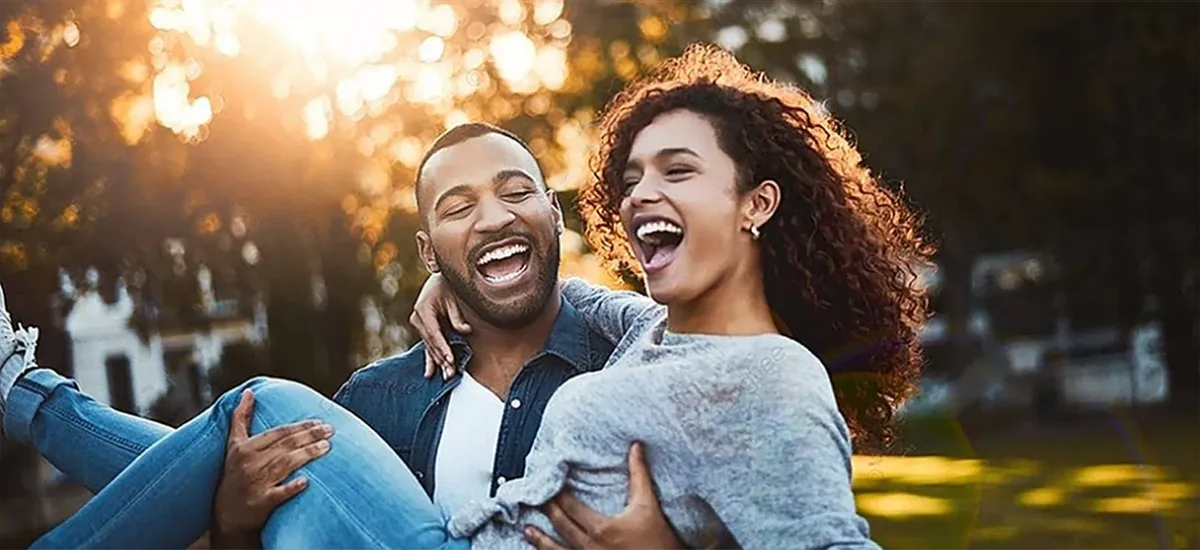
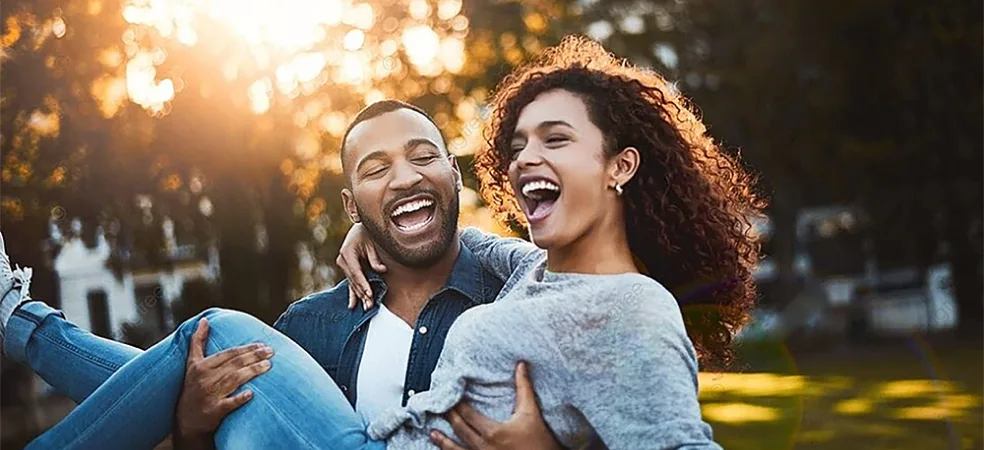
Use the Figma photos, fix the tab-switch jump
- Event banners come from Blend-remake: Office hours had the Day off
  photo, and Day off had none.
- Gender photos are transparent 2x exports (no white box in dark mode);
  Try-On demo photos are full size. Unused images removed.
- scrollbar-gutter: stable, so the column no longer shifts sideways
  when switching between Events and the change room on desktop.

diff --git a/src/data/events.ts b/src/data/events.ts
@@ -13,12 +13,12 @@ export type EventInfo = {
 export const events: EventInfo[] = [
   { id: 'casual', title: 'Casual', banner: asset('events/casual.webp'), font: { family: '"Notable", sans-serif', size: 63 }, productIds: ['g21', 'g14', 'g19', 'g08', 'g02', 'g01'] },
   { id: 'outdoors', title: 'Outdoors', banner: asset('events/outdoors.webp'), font: { family: '"Alfa Slab One", serif', size: 56 }, productIds: ['g11', 'g20', 'g12', 'g16', 'g01', 'g03'] },
-  { id: 'office-hours', title: 'Office hours', banner: asset('events/work.webp'), font: { family: '"DM Serif Display", serif', size: 67 }, productIds: ['g07', 'g15', 'g13', 'g06', 'g01', 'g03'] },
-  { id: 'day-off', title: 'Day off', font: { family: '"Kranky", cursive', size: 63 }, productIds: ['g10', 'g06', 'g18', 'g08', 'g02', 'g04'] },
+  { id: 'office-hours', title: 'Office hours', banner: asset('events/office-hours.webp'), font: { family: '"DM Serif Display", serif', size: 67 }, productIds: ['g07', 'g15', 'g13', 'g06', 'g01', 'g03'] },
+  { id: 'day-off', title: 'Day off', banner: asset('events/day-off.webp'), font: { family: '"Kranky", cursive', size: 63 }, productIds: ['g10', 'g06', 'g18', 'g08', 'g02', 'g04'] },
   { id: 'maternity', title: 'Maternity', banner: asset('events/maternity.webp'), font: { family: '"Italiana", serif', size: 63 }, productIds: ['g08', 'g06', 'g18', 'g20', 'g02', 'g04'] },
-  { id: 'working-out', title: 'Working out', banner: asset('events/sport.webp'), font: { family: '"Racing Sans One", sans-serif', size: 65 }, productIds: ['g17', 'g18', 'g21', 'g06', 'g02', 'g04'] },
-  { id: 'night-out', title: 'Night out', banner: asset('events/evening.webp'), font: { family: '"Monoton", cursive', size: 54 }, productIds: ['g15', 'g09', 'g13', 'g07', 'g03', 'g05'] },
-  { id: 'beach-day', title: 'Beach day', banner: asset('events/beach.webp'), font: { family: '"Pacifico", cursive', size: 52 }, productIds: ['g17', 'g19', 'g14', 'g18', 'g04', 'g05'] },
+  { id: 'working-out', title: 'Working out', banner: asset('events/working-out.webp'), font: { family: '"Racing Sans One", sans-serif', size: 65 }, productIds: ['g17', 'g18', 'g21', 'g06', 'g02', 'g04'] },
+  { id: 'night-out', title: 'Night out', banner: asset('events/night-out.webp'), font: { family: '"Monoton", cursive', size: 54 }, productIds: ['g15', 'g09', 'g13', 'g07', 'g03', 'g05'] },
+  { id: 'beach-day', title: 'Beach day', banner: asset('events/beach-day.webp'), font: { family: '"Pacifico", cursive', size: 52 }, productIds: ['g17', 'g19', 'g14', 'g18', 'g04', 'g05'] },
 ]
 
 export const eventsById: Record<string, EventInfo> = Object.fromEntries(events.map((e) => [e.id, e]))

diff --git a/src/services/tryOn.ts b/src/services/tryOn.ts
@@ -24,7 +24,7 @@ export type TryOnResult = { imageUrl: string; isDemo: boolean; revoke?: () => vo
 // Any try-on provider: takes the request, resolves with the preview image. Swap the one below for a real one later.
 export type TryOnProvider = (request: TryOnRequest, signal?: AbortSignal) => Promise<TryOnResult>
 
-export const DEMO_PHOTO = asset('try-on/demo-person.webp')
+export const DEMO_PHOTO = asset('try-on/person-demo.webp')
 export const MOCK_DELAY_MS = 3000
 
 // The designer's mock, not real AI: it waits about 3 seconds like a render would, then shows the shopper's own photo

diff --git a/src/screens/try-on/Start.tsx b/src/screens/try-on/Start.tsx
@@ -61,7 +61,7 @@ export function Start({ blocked = false }: { blocked?: boolean }) {
             </figcaption>
           </figure>
           <figure className="example">
-            <img src={asset('try-on/example-not-like.webp')} alt="" width={185} height={322} />
+            <img src={asset('try-on/example-not-like-this.webp')} alt="" width={185} height={322} />
             <figcaption>
               <span className="badge">
                 <Icon name="cross" className="badge__no" />

diff --git a/src/screens/Options.tsx b/src/screens/Options.tsx
@@ -82,7 +82,7 @@ export function Options() {
                     aria-pressed={on}
                     onClick={() => dispatch({ type: 'setGender', gender: on ? null : g.value })}
                   >
-                    <img src={asset(`try-on/gender-${g.value}.webp`)} alt="" width={117} height={216} />
+                    <img src={asset(`gender/${g.value}.webp`)} alt="" width={117} height={216} />
                   </button>
                 )
               })}

diff --git a/src/styles/base.css b/src/styles/base.css
@@ -15,6 +15,9 @@ body,
 html {
   background: var(--color-background);
   color-scheme: light;
+  /* Events scrolls and the change room doesn't. Where scrollbars take space (desktop), keeping the gutter stops
+     the column jumping sideways when you switch tabs. */
+  scrollbar-gutter: stable;
 }
 
 :root[data-theme='dark'] {

diff --git a/src/screens/Options.css b/src/screens/Options.css
@@ -74,7 +74,6 @@
   width: 117px;
   height: 216px;
   filter: grayscale(1);
-  mix-blend-mode: multiply;
   transition: filter 0.3s ease-out;
 }
 

diff --git a/NEXT-SESSION.md b/NEXT-SESSION.md
@@ -359,6 +359,14 @@ Saved before: **"Before clean-up batch"**. Two designers finished:
   - ~~"CHANGE ROOM" still gets cut on 320-wide phones.~~ Fixed (3 Nov, late morning): below 360 the label wraps to CHANGE / ROOM (NavSwitch.css).
 - **Narrow-phone fixes (3 Nov, late morning), checked at 320–430 in Chrome, build passes:**
   - CHECKOUT clipped its total below ~375 ("ECKOUT 528.00 E"). The button is now a size container: below 209 wide the currency is hidden from view (still read out), below 171 the label is 13px, and under 360 the bottom bar's search / Turn around pills are 56 wide. The longest total (2,5xx.00) keeps at least 8 each side at every width.
+- **Figma assets (3 Nov, ~11:30):** the new Figma token is in `.figma-token` (git-ignored; the user had put it in a file name, now removed). `npm run figma:assets` ran. Now wired:
+  - **Banners:** Office hours had been showing the Day off garden photo (old `work.webp`); now each event uses its own Figma photo, and **Day off has its banner**. The old banner files are only used by src/legacy.
+  - **Gender photos:** `public/gender/` (2×, transparent), so the **white box behind the female model is gone**; `mix-blend-mode: multiply` removed from Options.css.
+  - **Try-On:** the demo person and the "not like this" example are the full-size Figma photos.
+  - Removed 5 images nothing used (business-casual, demo-person, example-not-like, gender-women, gender-men).
+- **Tab-switch jump (user, 3 Nov):** on desktop the page scrollbar came and went between Events (scrolls) and the change room (doesn't), shifting the column ~10px. Fixed with `scrollbar-gutter: stable` on html (base.css); positions now match on both tabs.
+- **Logo on photos (user, 3 Nov): "isn't like it should be".** The code matches Figma exactly (Layer_1 export: same paths, white fill + white 1px outline, 15% shadow, at 20 / 27.2). Asked the user what should change.
+- **Git:** first commit made (90tsky, noreply email). `gh repo create` was blocked by Claude Code's permission check (public repo); the user runs it or approves it.
 - **Lost session (3 Nov):** clicking a Windows notification opened the session's *current* folder (e.g. Blend) in VS Code, which reloaded the window and dropped the chat. Fixed in D:\Kris Work\Claude\hooks\notify.ps1: the click now opens the folder the session started in (`CLAUDE_PROJECT_DIR`), so VS Code only brings the window forward. notify.log shows the click target on each line.
 - **Next:** once `gh auth login` is done, set the repo-local git name and noreply email from `gh api user`, commit, create the public repo "blend", push, switch Pages to GitHub Actions, and check the deploy.
 
